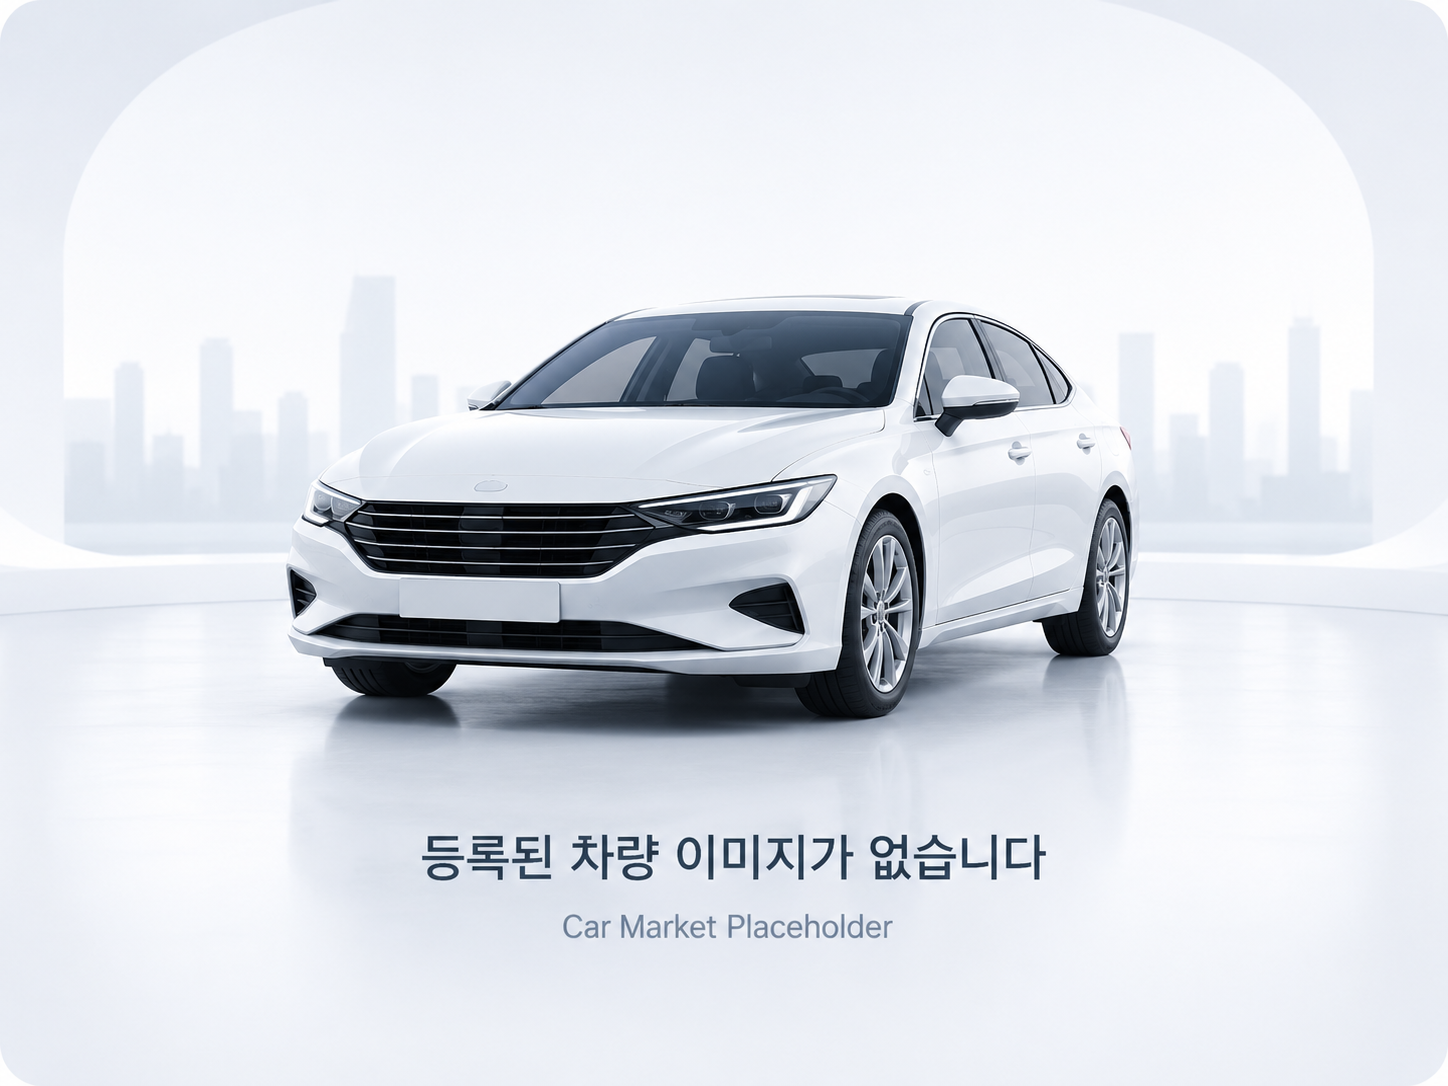
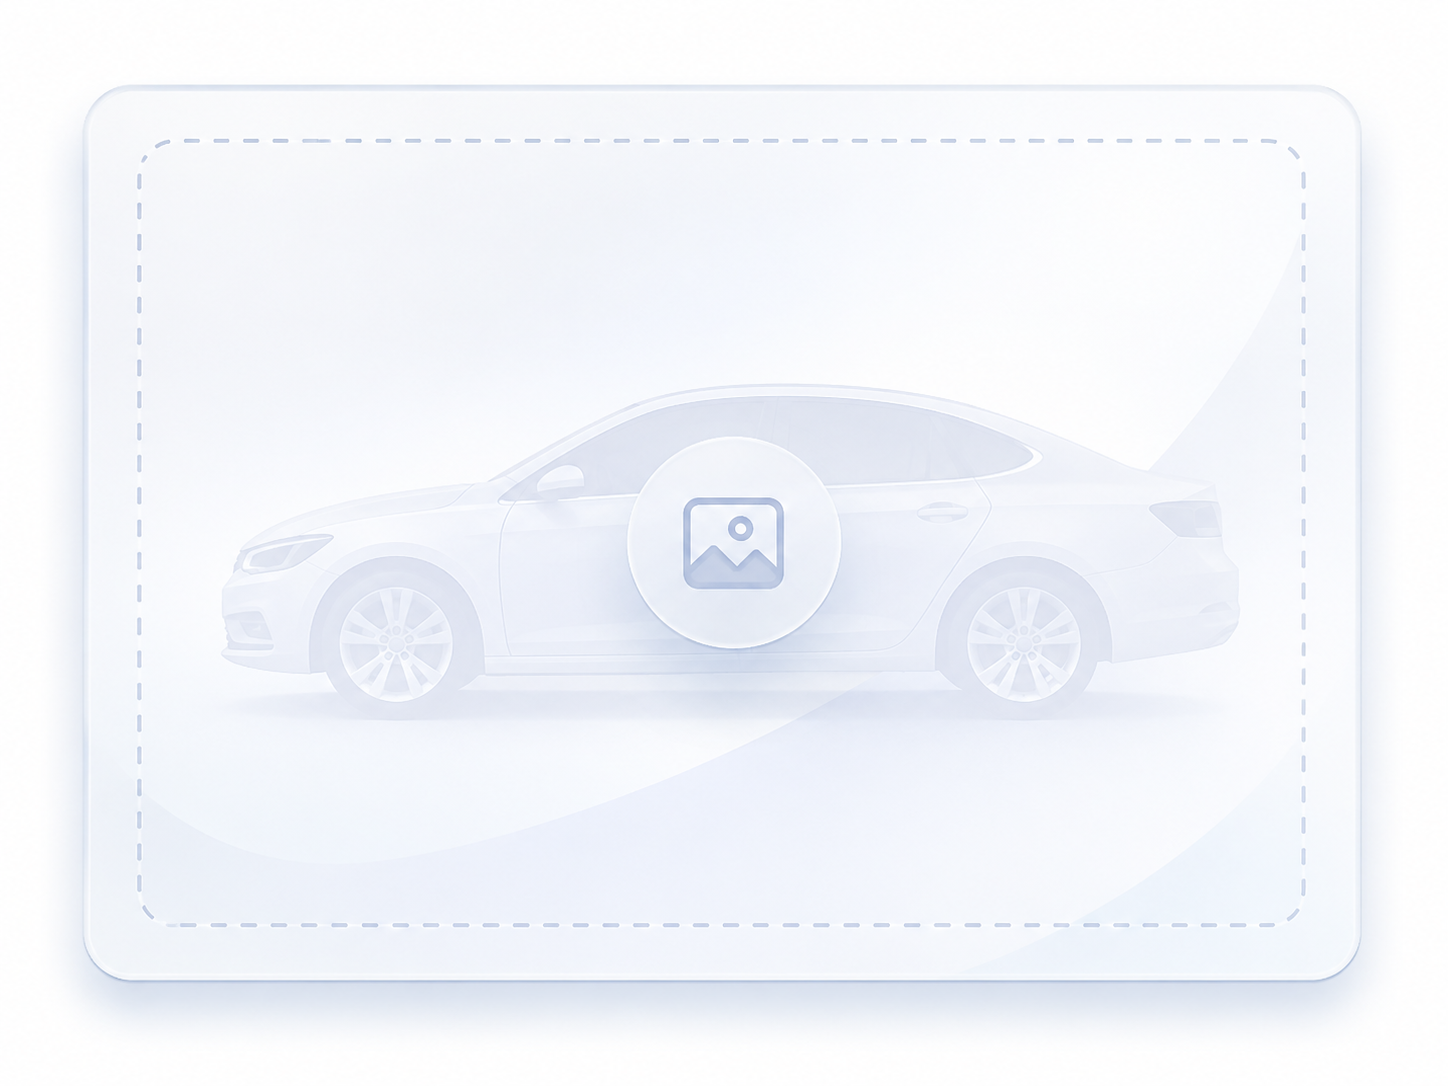
fix: placeholder 이미지 분리와 안내바 닫기 UX 개선
- 화면별 placeholder 이미지 경로를 분리한다.
- 로그인/회원가입 이미지에 fallback 처리를 추가한다.
- 전역 안내바에 닫기 버튼을 추가한다.
- 페이지 이동 후 이전 오류 안내가 남지 않도록 정리한다.

diff --git a/frontend/src/App.jsx b/frontend/src/App.jsx
@@ -1,4 +1,4 @@
-import { useEffect, useMemo, useState } from "react";
+import { useEffect, useMemo, useRef, useState } from "react";
 import {
   Navigate,
   Route,
@@ -33,12 +33,14 @@ function App() {
   } = useAuth();
   const location = useLocation();
   const navigate = useNavigate();
+  const previousPathRef = useRef(location.pathname);
   const [cars, setCars] = useState([]);
   const [selectedCar, setSelectedCar] = useState(null);
   const [deleteTarget, setDeleteTarget] = useState(null);
   const [currentView, setCurrentView] = useState("list");
   const [isLoading, setIsLoading] = useState(true);
   const [message, setMessage] = useState({ type: "", text: "" });
+  const [isAuthErrorDismissed, setIsAuthErrorDismissed] = useState(false);
   const [filters, setFilters] = useState({
     keyword: "",
     company: "",
@@ -73,13 +75,26 @@ function App() {
 
   const displayMessage = message.text
     ? message
-    : authError
+    : authError && !isAuthErrorDismissed
       ? { type: "error", text: authError }
       : message;
 
   useEffect(() => {
     loadCars();
   }, []);
+
+  useEffect(() => {
+    setIsAuthErrorDismissed(false);
+  }, [authError]);
+
+  useEffect(() => {
+    if (previousPathRef.current !== location.pathname) {
+      previousPathRef.current = location.pathname;
+      setMessage((prevMessage) =>
+        prevMessage.type === "error" ? { type: "", text: "" } : prevMessage,
+      );
+    }
+  }, [location.pathname]);
 
   async function requestApi(url, options) {
     const response = await fetch(url, options);
@@ -498,7 +513,7 @@ function App() {
                 <img
                   alt="차량 등록 대기 중 placeholder"
                   className="h-64 w-full rounded-[1.2rem] object-cover sm:h-80"
-                  src="/uploads/default-car.png"
+                  src="/uploads/pre-default-car.png"
                 />
                 <div className="absolute bottom-6 left-6 right-6 rounded-2xl bg-white/90 p-4 shadow-lg backdrop-blur">
                   <p className="text-sm font-black text-slate-950">
@@ -721,6 +736,14 @@ function App() {
             <AlertMessage
               type={displayMessage.type}
               message={displayMessage.text}
+              onClose={() => {
+                if (message.text) {
+                  setMessage({ type: "", text: "" });
+                  return;
+                }
+
+                setIsAuthErrorDismissed(true);
+              }}
             />
           </div>
         )}

diff --git a/frontend/src/components/AlertMessage.jsx b/frontend/src/components/AlertMessage.jsx
@@ -1,4 +1,4 @@
-function AlertMessage({ type = "info", message }) {
+function AlertMessage({ type = "info", message, onClose }) {
   if (!message) {
     return null;
   }
@@ -13,8 +13,31 @@ function AlertMessage({ type = "info", message }) {
           : "c-alert-info";
 
   return (
-    <div className={alertClass} role="alert">
+    <div className={`${alertClass} justify-between`} role="alert">
       <span>{message}</span>
+      {onClose && (
+        <button
+          aria-label="안내 닫기"
+          className="ml-3 inline-flex h-7 w-7 flex-shrink-0 items-center justify-center rounded-full text-current/70 transition-colors hover:bg-white/70 hover:text-current focus-visible:outline-none focus-visible:ring-2 focus-visible:ring-current/30"
+          type="button"
+          onClick={onClose}
+        >
+          <svg
+            className="h-4 w-4"
+            fill="none"
+            viewBox="0 0 24 24"
+            stroke="currentColor"
+            aria-hidden="true"
+          >
+            <path
+              strokeLinecap="round"
+              strokeLinejoin="round"
+              strokeWidth={2}
+              d="M6 18L18 6M6 6l12 12"
+            />
+          </svg>
+        </button>
+      )}
     </div>
   );
 }

diff --git a/frontend/src/components/LoginForm.jsx b/frontend/src/components/LoginForm.jsx
@@ -133,9 +133,13 @@ function AuthBrandPanel() {
         </p>
       </div>
       <img
-        alt="차량 등록 대기 중 placeholder"
+        alt="로그인 화면 차량 이미지"
         className="absolute bottom-8 right-8 z-10 h-56 w-[22rem] rounded-[1.5rem] object-cover shadow-2xl shadow-slate-950/40"
-        src="/uploads/default-car.png"
+        src="/uploads/auth-car-placeholder.png"
+        onError={(event) => {
+          event.currentTarget.onerror = null;
+          event.currentTarget.src = "/uploads/pre-default-car.png";
+        }}
       />
     </div>
   );

diff --git a/frontend/src/components/RegisterForm.jsx b/frontend/src/components/RegisterForm.jsx
@@ -182,9 +182,13 @@ function RegisterForm({ onGoLogin, onRegisterSuccess }) {
           </div>
           <div className="absolute bottom-8 left-8 right-8 rounded-[1.5rem] border border-white/80 bg-white/80 p-3 shadow-2xl shadow-blue-100 backdrop-blur">
             <img
-              alt="차량 등록 대기 중 placeholder"
+              alt="회원가입 화면 차량 이미지"
               className="h-56 w-full rounded-[1.2rem] object-cover"
-              src="/uploads/default-car.png"
+              src="/uploads/auth-car-placeholder.png"
+              onError={(event) => {
+                event.currentTarget.onerror = null;
+                event.currentTarget.src = "/uploads/pre-default-car.png";
+              }}
             />
           </div>
         </div>

diff --git a/docs/steps/2026-06-06-11-modern-ui-redesign.md b/docs/steps/2026-06-06-11-modern-ui-redesign.md
@@ -28,11 +28,14 @@
 
 | 용도 | 파일명 |
 | --- | --- |
+| 첫 화면 Hero 대기 이미지 | `uploads/pre-default-car.png` |
+| 로그인/회원가입 브랜드 이미지 | `uploads/auth-car-placeholder.png` |
 | 차량 이미지 미등록 기본 이미지 | `uploads/default-car.png` |
 | 차량 등록/수정 폼 업로드 유도 이미지 | `uploads/car-upload-placeholder.png` |
 
 차량 이미지가 없는 경우에는 카드와 상세 화면에서 `uploads/default-car.png`를 사용한다.
 차량 목록 자체가 비어 있는 경우에는 새 `EmptyState` 컴포넌트로 “조건에 맞는 차량이 없습니다” 계열 안내를 표시한다.
+로그인/회원가입 브랜드 이미지가 없으면 `uploads/pre-default-car.png`로 대체 표시한다.
 
 ## 변경한 파일 요약
 
@@ -48,6 +51,7 @@
 | `frontend/src/components/LoginForm.jsx` | 2열 브랜드 패널형 로그인 화면으로 개선 |
 | `frontend/src/components/RegisterForm.jsx` | 2열 회원가입 화면, 역할 선택 카드, inline SVG 아이콘 적용 |
 | `frontend/src/components/CarForm.jsx` | 딜러용 slate 사이드바와 업로드 유도 영역을 포함한 폼으로 개선 |
+| `frontend/src/components/AlertMessage.jsx` | 전역 안내바 닫기 버튼 추가 |
 
 ## 주요 변경 내용
 
@@ -61,7 +65,7 @@
 ### 첫 화면
 
 - 기존 파란 그라데이션 텍스트 Hero를 밝은 white/sky/blue gradient Hero로 교체했다.
-- Hero 우측에 `uploads/default-car.png` placeholder 이미지를 배치했다.
+- Hero 우측에 `uploads/pre-default-car.png` placeholder 이미지를 배치했다.
 - 검색 패널은 Hero 아래에 겹쳐 보이도록 `c-surface -mt-12` 형태로 구성했다.
 - 검색 필드는 라벨이 있는 그룹으로 정리했다.
 
@@ -91,6 +95,12 @@
 - 기본 정보, 차량 스펙, 판매 정보, 사진 업로드, 상세 설명 순서가 보이도록 구성했다.
 - 사진 업로드 영역에 `uploads/car-upload-placeholder.png`를 사용하도록 연결했다.
 
+### 안내바 UX
+
+- 전역 안내바에 X 닫기 버튼을 추가했다.
+- 라우트가 바뀔 때 이전 오류 안내가 계속 남지 않도록 오류 메시지를 정리한다.
+- Firebase 인증 오류처럼 `authError`에서 올라오는 안내도 사용자가 닫을 수 있게 처리했다.
+
 ## 보존한 항목
 
 | 항목 | 내용 |
@@ -118,6 +128,8 @@
 
 ## 남은 작업
 
-1. 사용자가 `uploads/default-car.png`를 “차량 등록 대기 중” placeholder 이미지로 교체한다.
-2. 사용자가 `uploads/car-upload-placeholder.png`를 “이미지 업로드 유도” placeholder 이미지로 추가한다.
+1. 사용자가 `uploads/pre-default-car.png`를 첫 화면 Hero용 placeholder 이미지로 교체한다.
+2. 사용자가 `uploads/auth-car-placeholder.png`를 로그인/회원가입용 placeholder 이미지로 추가한다.
+3. 사용자가 `uploads/default-car.png`를 차량 이미지 미등록 기본 이미지로 교체한다.
+4. 사용자가 `uploads/car-upload-placeholder.png`를 “이미지 업로드 유도” placeholder 이미지로 추가한다.
 3. 2차 개선에서 상담방 목록, 채팅 화면, 딜러 관리, 관리자 대시보드, 모바일 하단 내비게이션을 별도 고도화한다.

diff --git a/docs/progress.md b/docs/progress.md
@@ -16,17 +16,20 @@
 - 사용자 화면 색상을 `white`, `slate-50`, `blue-600`, sky light gradient 중심으로 정리했다.
 - 첫 화면 Hero에 placeholder 차량 이미지를 배치하고 검색 패널을 라벨형 입력 UI로 개선했다.
 - 차량 카드에 가격 강조, 스펙 박스, 상담하기 CTA, hover 효과를 적용했다.
-- 차량 이미지가 없는 경우는 `uploads/default-car.png`, 차량 목록이 없는 경우는 `EmptyState`로 구분했다.
+- 첫 화면 Hero는 `uploads/pre-default-car.png`, 로그인/회원가입은 `uploads/auth-car-placeholder.png`, 차량 이미지 없음은 `uploads/default-car.png`, 차량 목록 없음은 `EmptyState`로 구분했다.
 - 차량 상세 화면을 큰 이미지, 썸네일, 스펙 그리드, 딜러 CTA 카드 중심으로 재구성했다.
 - 로그인/회원가입 화면을 2열 브랜드 패널 구조로 개선했다.
 - 차량 등록/수정 폼은 slate/navy 딜러 사이드바와 업로드 유도 이미지를 포함한 업무형 화면으로 개선했다.
 - 새 아이콘 패키지는 추가하지 않고 inline SVG를 사용했다.
+- 전역 안내바에 닫기 버튼을 추가하고, 페이지 이동 후 이전 오류 안내가 남지 않도록 정리했다.
 
 ### 남은 확인
 
-1. 사용자가 `uploads/default-car.png`를 “차량 등록 대기 중” placeholder 이미지로 교체한다.
-2. 사용자가 `uploads/car-upload-placeholder.png`를 “이미지 업로드 유도” placeholder 이미지로 추가한다.
-3. 2차 개선에서 상담방 목록, 실시간 상담 화면, 딜러 관리, 관리자 대시보드, 모바일 하단 내비게이션을 검토한다.
+1. 사용자가 `uploads/pre-default-car.png`를 첫 화면 Hero용 placeholder 이미지로 교체한다.
+2. 사용자가 `uploads/auth-car-placeholder.png`를 로그인/회원가입용 placeholder 이미지로 추가한다.
+3. 사용자가 `uploads/default-car.png`를 차량 이미지 미등록 기본 이미지로 교체한다.
+4. 사용자가 `uploads/car-upload-placeholder.png`를 “이미지 업로드 유도” placeholder 이미지로 추가한다.
+5. 2차 개선에서 상담방 목록, 실시간 상담 화면, 딜러 관리, 관리자 대시보드, 모바일 하단 내비게이션을 검토한다.
 
 ## Render/GitHub Actions 문서 업데이트와 README 제출용 정리
 

diff --git a/docs/pr/2026-06-06-11-modern-ui-redesign-pr.md b/docs/pr/2026-06-06-11-modern-ui-redesign-pr.md
@@ -49,6 +49,11 @@ feat: 핵심 화면 Modern Car Marketplace UI 개선
 - 사진 업로드 영역에 업로드 유도 placeholder 이미지를 연결했다.
 - 입력 섹션을 업무형 폼처럼 구분했다.
 
+### 안내바 UX
+
+- `AlertMessage.jsx`에 X 닫기 버튼을 추가했다.
+- SPA 이동 후 이전 오류 안내가 남는 문제를 줄이기 위해 라우트 변경 시 오류 메시지를 정리한다.
+
 ### 문서
 
 - `docs/plans/plan-11-modern-ui-redesign.md`에 사용자 확정 답변과 1차/2차 구현 범위를 반영했다.
@@ -69,6 +74,7 @@ frontend/src/components/CarDetail.jsx
 frontend/src/components/LoginForm.jsx
 frontend/src/components/RegisterForm.jsx
 frontend/src/components/CarForm.jsx
+frontend/src/components/AlertMessage.jsx
 ```
 
 ## 보존된 항목
@@ -86,6 +92,8 @@ frontend/src/components/CarForm.jsx
 
 | 용도 | 파일명 |
 | --- | --- |
+| 첫 화면 Hero 대기 이미지 | `uploads/pre-default-car.png` |
+| 로그인/회원가입 브랜드 이미지 | `uploads/auth-car-placeholder.png` |
 | 차량 이미지 미등록 | `uploads/default-car.png` |
 | 차량 등록/수정 폼 업로드 유도 | `uploads/car-upload-placeholder.png` |
 